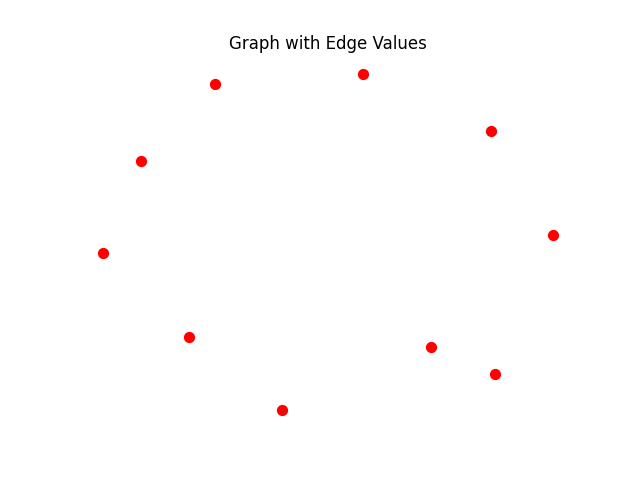
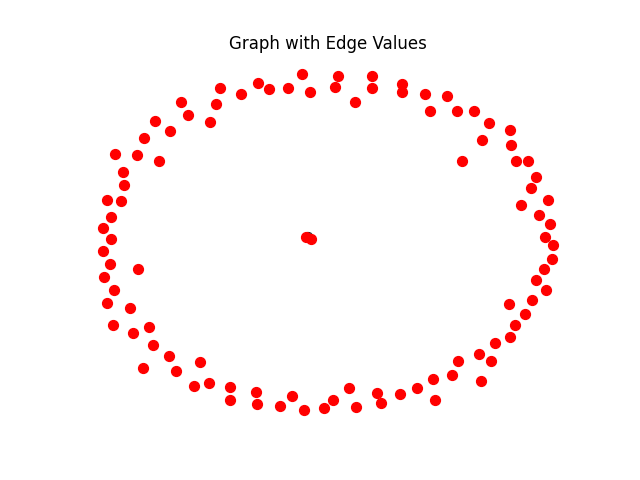
added neighbour fn

diff --git a/utils.py b/utils.py
@@ -15,16 +15,13 @@ def get_num_sub_sinks(nodes_raw, edges_raw):
     #check_if_subsink
     subsinks = []
     for i, _ in enumerate(out_edges_per_node):
+        is_subsink = True
         for edge in out_edges_per_node[i]:
             if edge.to_node.fitness() > edge.from_node.fitness():
-                subsinks.append(i)
+                is_subsink = True
+        if is_subsink:
+            subsinks.append(i)
     return len(subsinks)
-
-
-    nodes_c = 0
-    edges_c = len(edges_raw)
-
-    return 0
 
 
 def save_graph(nodes_raw, edges_raw, name):

diff --git a/test.py b/test.py
@@ -54,7 +54,7 @@ for f in datafiles:
     l.generate_nodes(100, 10)
 
     print("generating edges")
-    l.generate_edges(10)
+    l.generate_edges(100)
 
     print('edges:')
     for edge in l.edges:
